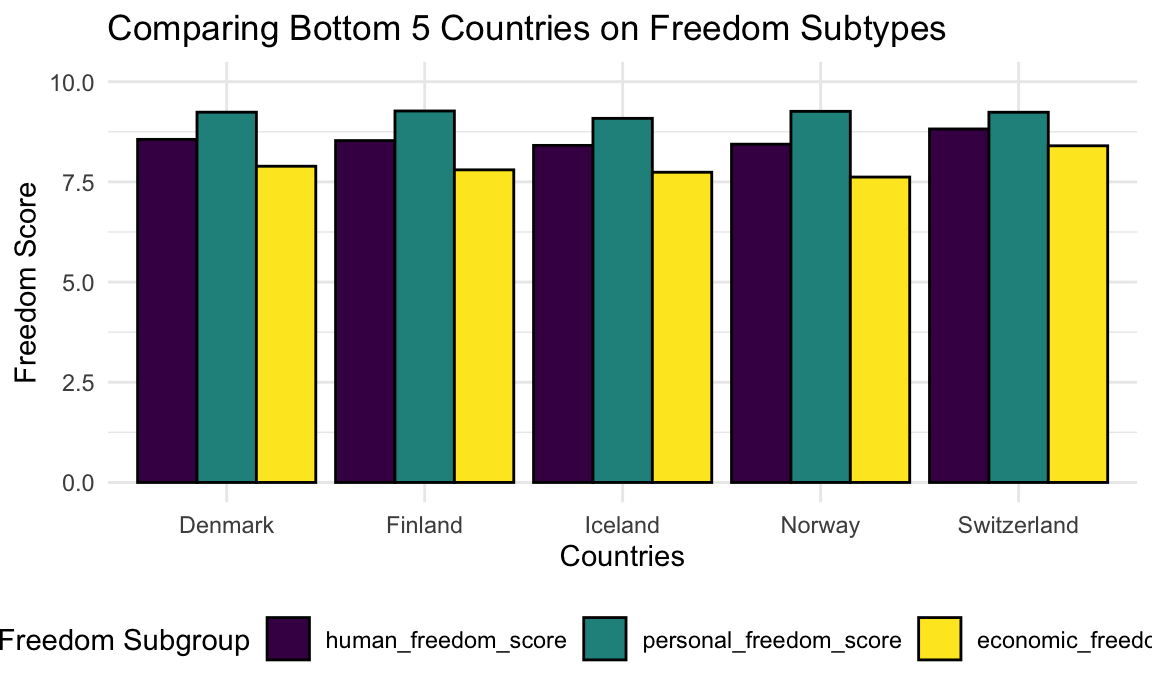
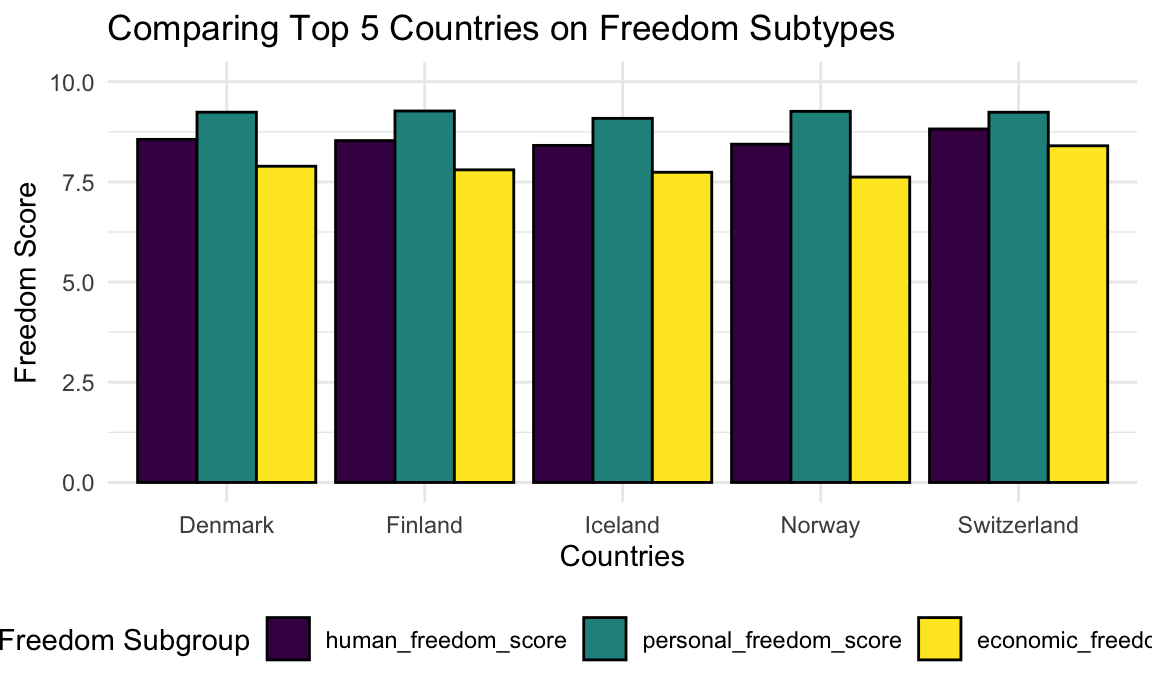
Finished top 5 bottom 5

Changed region(s): [[0.25, 0.0, 0.8438, 0.0608]]

diff --git a/top_5_bottom_5.html b/top_5_bottom_5.html
@@ -637,8 +637,8 @@ hfi_combo %&gt;%
   layout(title = &quot;Comparing Top 5 and Bottom 5 Human Freedom Scoring Countries&quot;,
       xaxis = list(title = &quot;Human Freedom Score&quot;),
       yaxis = list(title = &quot;Happiness Score&quot;))</code></pre>
-<div id="htmlwidget-d3958612dc48630bd6ab" style="width:90%;height:345.6px;" class="plotly html-widget"></div>
-<script type="application/json" data-for="htmlwidget-d3958612dc48630bd6ab">{"x":{"visdat":{"4df41dd8dc9e":["function () ","plotlyVisDat"]},"cur_data":"4df41dd8dc9e","attrs":{"4df41dd8dc9e":{"x":{},"y":{},"mode":"markers","text":{},"color":{},"size":3,"colors":"viridis","alpha":0.5,"alpha_stroke":1,"sizes":[10,100],"spans":[1,20],"type":"scatter"}},"layout":{"margin":{"b":40,"l":60,"t":25,"r":10},"title":"Comparing Top 5 and Bottom 5 Human Freedom Scoring Countries","xaxis":{"domain":[0,1],"automargin":true,"title":"Human Freedom Score"},"yaxis":{"domain":[0,1],"automargin":true,"title":"Happiness Score"},"hovermode":"closest","showlegend":true},"source":"A","config":{"showSendToCloud":false},"data":[{"x":[8.62],"y":[7.22279977798462],"mode":"markers","text":"Australia<br />Freedom Score:8.62<br />Happiness Score: 7.22279977798462","type":"scatter","name":"Australia","marker":{"color":"rgba(68,1,84,0.5)","size":[55],"sizemode":"area","line":{"color":"rgba(68,1,84,1)"}},"textfont":{"color":"rgba(68,1,84,0.5)","size":55},"error_y":{"color":"rgba(68,1,84,0.5)","width":55},"error_x":{"color":"rgba(68,1,84,0.5)","width":55},"line":{"color":"rgba(68,1,84,0.5)","width":55},"xaxis":"x","yaxis":"y","frame":null},{"x":[8.65],"y":[7.23210000991821],"mode":"markers","text":"Canada<br />Freedom Score:8.65<br />Happiness Score: 7.23210000991821","type":"scatter","name":"Canada","marker":{"color":"rgba(72,40,120,0.5)","size":[55],"sizemode":"area","line":{"color":"rgba(72,40,120,1)"}},"textfont":{"color":"rgba(72,40,120,0.5)","size":55},"error_y":{"color":"rgba(72,40,120,0.5)","width":55},"error_x":{"color":"rgba(72,40,120,0.5)","width":55},"line":{"color":"rgba(72,40,120,0.5)","width":55},"xaxis":"x","yaxis":"y","frame":null},{"x":[4.5],"y":[4.15140008926392],"mode":"markers","text":"Egypt<br />Freedom Score:4.5<br />Happiness Score: 4.15140008926392","type":"scatter","name":"Egypt","marker":{"color":"rgba(62,74,137,0.5)","size":[55],"sizemode":"area","line":{"color":"rgba(62,74,137,1)"}},"textfont":{"color":"rgba(62,74,137,0.5)","size":55},"error_y":{"color":"rgba(62,74,137,0.5)","width":55},"error_x":{"color":"rgba(62,74,137,0.5)","width":55},"line":{"color":"rgba(62,74,137,0.5)","width":55},"xaxis":"x","yaxis":"y","frame":null},{"x":[8.81],"y":[5.51039981842041],"mode":"markers","text":"Hong Kong<br />Freedom Score:8.81<br />Happiness Score: 5.51039981842041","type":"scatter","name":"Hong Kong","marker":{"color":"rgba(49,104,142,0.5)","size":[55],"sizemode":"area","line":{"color":"rgba(49,104,142,1)"}},"textfont":{"color":"rgba(49,104,142,0.5)","size":55},"error_y":{"color":"rgba(49,104,142,0.5)","width":55},"error_x":{"color":"rgba(49,104,142,0.5)","width":55},"line":{"color":"rgba(49,104,142,0.5)","width":55},"xaxis":"x","yaxis":"y","frame":null},{"x":[4.34],"y":[4.78480005264282],"mode":"markers","text":"Iraq<br />Freedom Score:4.34<br />Happiness Score: 4.78480005264282","type":"scatter","name":"Iraq","marker":{"color":"rgba(38,130,142,0.5)","size":[55],"sizemode":"area","line":{"color":"rgba(38,130,142,1)"}},"textfont":{"color":"rgba(38,130,142,0.5)","size":55},"error_y":{"color":"rgba(38,130,142,0.5)","width":55},"error_x":{"color":"rgba(38,130,142,0.5)","width":55},"line":{"color":"rgba(38,130,142,0.5)","width":55},"xaxis":"x","yaxis":"y","frame":null},{"x":[4.64],"y":[5.48880004882812],"mode":"markers","text":"Libya<br />Freedom Score:4.64<br />Happiness Score: 5.48880004882812","type":"scatter","name":"Libya","marker":{"color":"rgba(31,158,137,0.5)","size":[55],"sizemode":"area","line":{"color":"rgba(31,158,137,1)"}},"textfont":{"color":"rgba(31,158,137,0.5)","size":55},"error_y":{"color":"rgba(31,158,137,0.5)","width":55},"error_x":{"color":"rgba(31,158,137,0.5)","width":55},"line":{"color":"rgba(31,158,137,0.5)","width":55},"xaxis":"x","yaxis":"y","frame":null},{"x":[8.88],"y":[7.29960012435913],"mode":"markers","text":"New Zealand<br />Freedom Score:8.88<br />Happiness Score: 7.29960012435913","type":"scatter","name":"New Zealand","marker":{"color":"rgba(53,183,121,0.5)","size":[55],"sizemode":"area","line":{"color":"rgba(53,183,121,1)"}},"textfont":{"color":"rgba(53,183,121,0.5)","size":55},"error_y":{"color":"rgba(53,183,121,0.5)","width":55},"error_x":{"color":"rgba(53,183,121,0.5)","width":55},"line":{"color":"rgba(53,183,121,0.5)","width":55},"xaxis":"x","yaxis":"y","frame":null},{"x":[8.82],"y":[7.55989980697632],"mode":"markers","text":"Switzerland<br />Freedom Score:8.82<br />Happiness Score: 7.55989980697632","type":"scatter","name":"Switzerland","marker":{"color":"rgba(109,205,89,0.5)","size":[55],"sizemode":"area","line":{"color":"rgba(109,205,89,1)"}},"textfont":{"color":"rgba(109,205,89,0.5)","size":55},"error_y":{"color":"rgba(109,205,89,0.5)","width":55},"error_x":{"color":"rgba(109,205,89,0.5)","width":55},"line":{"color":"rgba(109,205,89,0.5)","width":55},"xaxis":"x","yaxis":"y","frame":null},{"x":[3.8],"y":[5.05319976806641],"mode":"markers","text":"Venezuela<br />Freedom Score:3.8<br />Happiness Score: 5.05319976806641","type":"scatter","name":"Venezuela","marker":{"color":"rgba(180,222,44,0.5)","size":[55],"sizemode":"area","line":{"color":"rgba(180,222,44,1)"}},"textfont":{"color":"rgba(180,222,44,0.5)","size":55},"error_y":{"color":"rgba(180,222,44,0.5)","width":55},"error_x":{"color":"rgba(180,222,44,0.5)","width":55},"line":{"color":"rgba(180,222,44,0.5)","width":55},"xaxis":"x","yaxis":"y","frame":null},{"x":[4.3],"y":[3.52740001678467],"mode":"markers","text":"Yemen<br />Freedom Score:4.3<br />Happiness Score: 3.52740001678467","type":"scatter","name":"Yemen","marker":{"color":"rgba(253,231,37,0.5)","size":[55],"sizemode":"area","line":{"color":"rgba(253,231,37,1)"}},"textfont":{"color":"rgba(253,231,37,0.5)","size":55},"error_y":{"color":"rgba(253,231,37,0.5)","width":55},"error_x":{"color":"rgba(253,231,37,0.5)","width":55},"line":{"color":"rgba(253,231,37,0.5)","width":55},"xaxis":"x","yaxis":"y","frame":null}],"highlight":{"on":"plotly_click","persistent":false,"dynamic":false,"selectize":false,"opacityDim":0.2,"selected":{"opacity":1},"debounce":0},"shinyEvents":["plotly_hover","plotly_click","plotly_selected","plotly_relayout","plotly_brushed","plotly_brushing","plotly_clickannotation","plotly_doubleclick","plotly_deselect","plotly_afterplot","plotly_sunburstclick"],"base_url":"https://plot.ly"},"evals":[],"jsHooks":[]}</script>
+<div id="htmlwidget-efdf5a2f674acb18d810" style="width:90%;height:345.6px;" class="plotly html-widget"></div>
+<script type="application/json" data-for="htmlwidget-efdf5a2f674acb18d810">{"x":{"visdat":{"50e56fc32877":["function () ","plotlyVisDat"]},"cur_data":"50e56fc32877","attrs":{"50e56fc32877":{"x":{},"y":{},"mode":"markers","text":{},"color":{},"size":3,"colors":"viridis","alpha":0.5,"alpha_stroke":1,"sizes":[10,100],"spans":[1,20],"type":"scatter"}},"layout":{"margin":{"b":40,"l":60,"t":25,"r":10},"title":"Comparing Top 5 and Bottom 5 Human Freedom Scoring Countries","xaxis":{"domain":[0,1],"automargin":true,"title":"Human Freedom Score"},"yaxis":{"domain":[0,1],"automargin":true,"title":"Happiness Score"},"hovermode":"closest","showlegend":true},"source":"A","config":{"showSendToCloud":false},"data":[{"x":[8.62],"y":[7.22279977798462],"mode":"markers","text":"Australia<br />Freedom Score:8.62<br />Happiness Score: 7.22279977798462","type":"scatter","name":"Australia","marker":{"color":"rgba(68,1,84,0.5)","size":[55],"sizemode":"area","line":{"color":"rgba(68,1,84,1)"}},"textfont":{"color":"rgba(68,1,84,0.5)","size":55},"error_y":{"color":"rgba(68,1,84,0.5)","width":55},"error_x":{"color":"rgba(68,1,84,0.5)","width":55},"line":{"color":"rgba(68,1,84,0.5)","width":55},"xaxis":"x","yaxis":"y","frame":null},{"x":[8.65],"y":[7.23210000991821],"mode":"markers","text":"Canada<br />Freedom Score:8.65<br />Happiness Score: 7.23210000991821","type":"scatter","name":"Canada","marker":{"color":"rgba(72,40,120,0.5)","size":[55],"sizemode":"area","line":{"color":"rgba(72,40,120,1)"}},"textfont":{"color":"rgba(72,40,120,0.5)","size":55},"error_y":{"color":"rgba(72,40,120,0.5)","width":55},"error_x":{"color":"rgba(72,40,120,0.5)","width":55},"line":{"color":"rgba(72,40,120,0.5)","width":55},"xaxis":"x","yaxis":"y","frame":null},{"x":[4.5],"y":[4.15140008926392],"mode":"markers","text":"Egypt<br />Freedom Score:4.5<br />Happiness Score: 4.15140008926392","type":"scatter","name":"Egypt","marker":{"color":"rgba(62,74,137,0.5)","size":[55],"sizemode":"area","line":{"color":"rgba(62,74,137,1)"}},"textfont":{"color":"rgba(62,74,137,0.5)","size":55},"error_y":{"color":"rgba(62,74,137,0.5)","width":55},"error_x":{"color":"rgba(62,74,137,0.5)","width":55},"line":{"color":"rgba(62,74,137,0.5)","width":55},"xaxis":"x","yaxis":"y","frame":null},{"x":[8.81],"y":[5.51039981842041],"mode":"markers","text":"Hong Kong<br />Freedom Score:8.81<br />Happiness Score: 5.51039981842041","type":"scatter","name":"Hong Kong","marker":{"color":"rgba(49,104,142,0.5)","size":[55],"sizemode":"area","line":{"color":"rgba(49,104,142,1)"}},"textfont":{"color":"rgba(49,104,142,0.5)","size":55},"error_y":{"color":"rgba(49,104,142,0.5)","width":55},"error_x":{"color":"rgba(49,104,142,0.5)","width":55},"line":{"color":"rgba(49,104,142,0.5)","width":55},"xaxis":"x","yaxis":"y","frame":null},{"x":[4.34],"y":[4.78480005264282],"mode":"markers","text":"Iraq<br />Freedom Score:4.34<br />Happiness Score: 4.78480005264282","type":"scatter","name":"Iraq","marker":{"color":"rgba(38,130,142,0.5)","size":[55],"sizemode":"area","line":{"color":"rgba(38,130,142,1)"}},"textfont":{"color":"rgba(38,130,142,0.5)","size":55},"error_y":{"color":"rgba(38,130,142,0.5)","width":55},"error_x":{"color":"rgba(38,130,142,0.5)","width":55},"line":{"color":"rgba(38,130,142,0.5)","width":55},"xaxis":"x","yaxis":"y","frame":null},{"x":[4.64],"y":[5.48880004882812],"mode":"markers","text":"Libya<br />Freedom Score:4.64<br />Happiness Score: 5.48880004882812","type":"scatter","name":"Libya","marker":{"color":"rgba(31,158,137,0.5)","size":[55],"sizemode":"area","line":{"color":"rgba(31,158,137,1)"}},"textfont":{"color":"rgba(31,158,137,0.5)","size":55},"error_y":{"color":"rgba(31,158,137,0.5)","width":55},"error_x":{"color":"rgba(31,158,137,0.5)","width":55},"line":{"color":"rgba(31,158,137,0.5)","width":55},"xaxis":"x","yaxis":"y","frame":null},{"x":[8.88],"y":[7.29960012435913],"mode":"markers","text":"New Zealand<br />Freedom Score:8.88<br />Happiness Score: 7.29960012435913","type":"scatter","name":"New Zealand","marker":{"color":"rgba(53,183,121,0.5)","size":[55],"sizemode":"area","line":{"color":"rgba(53,183,121,1)"}},"textfont":{"color":"rgba(53,183,121,0.5)","size":55},"error_y":{"color":"rgba(53,183,121,0.5)","width":55},"error_x":{"color":"rgba(53,183,121,0.5)","width":55},"line":{"color":"rgba(53,183,121,0.5)","width":55},"xaxis":"x","yaxis":"y","frame":null},{"x":[8.82],"y":[7.55989980697632],"mode":"markers","text":"Switzerland<br />Freedom Score:8.82<br />Happiness Score: 7.55989980697632","type":"scatter","name":"Switzerland","marker":{"color":"rgba(109,205,89,0.5)","size":[55],"sizemode":"area","line":{"color":"rgba(109,205,89,1)"}},"textfont":{"color":"rgba(109,205,89,0.5)","size":55},"error_y":{"color":"rgba(109,205,89,0.5)","width":55},"error_x":{"color":"rgba(109,205,89,0.5)","width":55},"line":{"color":"rgba(109,205,89,0.5)","width":55},"xaxis":"x","yaxis":"y","frame":null},{"x":[3.8],"y":[5.05319976806641],"mode":"markers","text":"Venezuela<br />Freedom Score:3.8<br />Happiness Score: 5.05319976806641","type":"scatter","name":"Venezuela","marker":{"color":"rgba(180,222,44,0.5)","size":[55],"sizemode":"area","line":{"color":"rgba(180,222,44,1)"}},"textfont":{"color":"rgba(180,222,44,0.5)","size":55},"error_y":{"color":"rgba(180,222,44,0.5)","width":55},"error_x":{"color":"rgba(180,222,44,0.5)","width":55},"line":{"color":"rgba(180,222,44,0.5)","width":55},"xaxis":"x","yaxis":"y","frame":null},{"x":[4.3],"y":[3.52740001678467],"mode":"markers","text":"Yemen<br />Freedom Score:4.3<br />Happiness Score: 3.52740001678467","type":"scatter","name":"Yemen","marker":{"color":"rgba(253,231,37,0.5)","size":[55],"sizemode":"area","line":{"color":"rgba(253,231,37,1)"}},"textfont":{"color":"rgba(253,231,37,0.5)","size":55},"error_y":{"color":"rgba(253,231,37,0.5)","width":55},"error_x":{"color":"rgba(253,231,37,0.5)","width":55},"line":{"color":"rgba(253,231,37,0.5)","width":55},"xaxis":"x","yaxis":"y","frame":null}],"highlight":{"on":"plotly_click","persistent":false,"dynamic":false,"selectize":false,"opacityDim":0.2,"selected":{"opacity":1},"debounce":0},"shinyEvents":["plotly_hover","plotly_click","plotly_selected","plotly_relayout","plotly_brushed","plotly_brushing","plotly_clickannotation","plotly_doubleclick","plotly_deselect","plotly_afterplot","plotly_sunburstclick"],"base_url":"https://plot.ly"},"evals":[],"jsHooks":[]}</script>
 <p>This plot compares the top 5 and bottom 5 countries for human freedom scores. You can see that there is a good amount of variety in happiness scores among the top 5 and bottom 5 countries. Libya and Hong Kong have very similar happiness scores, which seems to indicate that high freedom scores do not necessarily mean that the population living in those countries are happier. Still, there is quite a divide in happiness scores across the other countries in the top 5 and bottom 5.</p>
 </div>
 </div>
@@ -707,7 +707,7 @@ hfi_combo %&gt;%
 <td align="right">6.464</td>
 </tr>
 <tr class="odd">
-<td align="left">bot_whr_sd</td>
+<td align="left">bot5_whr_sd</td>
 <td align="right">0.094</td>
 <td align="right">0.748</td>
 <td align="right">0.602</td>
@@ -715,6 +715,7 @@ hfi_combo %&gt;%
 </tr>
 </tbody>
 </table>
+<p>The bottom 5 countries for happiness scores are quite uniform, with a very small standard deviation and very little difference between the countries’ scores. However, they are quite different across freedom scores, with Botswana scoring pretty highly overall and in the two subtypes of freedom score. Additionally, it is interesting to note that there is no overlap between the bottom 5 countries in terms of happiness and the bottom 5 countries in terms of human freedom scores.</p>
 <pre class="r"><code>bot5_whr %&gt;% 
 select(-happiness_score) %&gt;% 
   pivot_longer(
@@ -733,7 +734,7 @@ select(-happiness_score) %&gt;%
   labs(fill = &quot;Freedom Subgroup&quot;)+
   theme(axis.text.x = element_text(size = 8, angle = 25, hjust = 1))</code></pre>
 <p><img src="top_5_bottom_5_files/figure-html/unnamed-chunk-13-1.png" width="90%" /></p>
-<p>Insert comments about bot 5 whr</p>
+<p>This chart shows further that the freedom scores for the countries with the lowest happiness scores are roughly similar, with the Central African Republic and Zimbabwe having lower scores than the others. Interestingly, these countries all seem to have pretty similar economic and personal freedom scores.</p>
 </div>
 <div id="top-5-countries-for-happiness-scores" class="section level4">
 <h4>Top 5 Countries for Happiness Scores</h4>
@@ -806,6 +807,7 @@ select(-happiness_score) %&gt;%
 </tr>
 </tbody>
 </table>
+<p>As with the bottom 5 countries, there is a good amount of uniformity in happiness scores among the top 5 scoring countries. The human freedom scores for these countries are also quite high. The most striking similarity between the top 5 happiness countries is that they all have very high personal freedom scores.</p>
 <pre class="r"><code>top5_whr %&gt;% 
 select(-happiness_score) %&gt;% 
   pivot_longer(
@@ -818,12 +820,54 @@ select(-happiness_score) %&gt;%
   ggplot(aes(x = countries, y = score, fill = freedom_subgroup)) + 
   geom_bar(stat = &quot;identity&quot;, color = &quot;black&quot;, position = position_dodge()) +
   ylim(min = 0, max = 10) + 
-  ggtitle(&quot;Comparing Bottom 5 Countries on Freedom Subtypes&quot;) +
+  ggtitle(&quot;Comparing Top 5 Countries on Freedom Subtypes&quot;) +
   xlab(&quot;Countries&quot;)+
   ylab(&quot;Freedom Score&quot;)+
   labs(fill = &quot;Freedom Subgroup&quot;)</code></pre>
 <p><img src="top_5_bottom_5_files/figure-html/unnamed-chunk-15-1.png" width="90%" /></p>
-<p>Insert comments about top 5 whr</p>
+<p>This chart shows that, unlike the bottom 5 countries for happiness scores, there is less uniformity between economic and personal freedom scores. All countries have very high personal freedom scores, but there is more variation in the economic freedom scores.</p>
+<pre class="r"><code>whr_table = 
+  rbind(top5_whr_merge, bot5_whr_merge) %&gt;% 
+  filter(countries %in% c(&quot;top5_whr_average&quot;, &quot;top5_whr_sd&quot;, &quot;bot5_whr_average&quot;, &quot;bot5_whr_sd&quot;)) %&gt;% 
+  select(countries, human_freedom_score, happiness_score) %&gt;% 
+  pivot_longer(human_freedom_score:happiness_score,
+    names_to = &quot;score&quot;,
+    values_to = &quot;aaah&quot;
+  ) %&gt;% 
+  pivot_wider(
+    names_from = &quot;countries&quot;,
+    values_from = &quot;aaah&quot;
+  )
+
+whr_table %&gt;% knitr::kable()</code></pre>
+<table>
+<thead>
+<tr class="header">
+<th align="left">score</th>
+<th align="right">top5_whr_average</th>
+<th align="right">top5_whr_sd</th>
+<th align="right">bot5_whr_average</th>
+<th align="right">bot5_whr_sd</th>
+</tr>
+</thead>
+<tbody>
+<tr class="odd">
+<td align="left">human_freedom_score</td>
+<td align="right">8.55200</td>
+<td align="right">0.1620802</td>
+<td align="right">6.2620</td>
+<td align="right">0.7477098</td>
+</tr>
+<tr class="even">
+<td align="left">happiness_score</td>
+<td align="right">7.60134</td>
+<td align="right">0.1312425</td>
+<td align="right">3.4085</td>
+<td align="right">0.0939190</td>
+</tr>
+</tbody>
+</table>
+<p>This table shows that the values for both human freedom scores and happiness scores among the top 5 countries for happiness are quite uniform in their distribution around the mean. On the other hand, the human freedom score standard deviation for the bottom 5 countries on happiness score is quite high, indicating that the scores are more spread out around the mean. The happiness score standard deviation for the bottom 5 countries, though, are very close to one another.</p>
 <pre class="r"><code>whr_combo = full_join(bot5_whr, top5_whr)
 
 whr_combo %&gt;% 
@@ -833,9 +877,9 @@ whr_combo %&gt;%
       xaxis = list(title = &quot;Happiness Score&quot;),
       yaxis = list(title = &quot;Human Freedom Score&quot;)
     )</code></pre>
-<div id="htmlwidget-51944a2f1526779c26cb" style="width:90%;height:345.6px;" class="plotly html-widget"></div>
-<script type="application/json" data-for="htmlwidget-51944a2f1526779c26cb">{"x":{"visdat":{"4df47787f0e0":["function () ","plotlyVisDat"]},"cur_data":"4df47787f0e0","attrs":{"4df47787f0e0":{"x":{},"y":{},"mode":"markers","text":{},"color":{},"size":3,"colors":"viridis","alpha":0.5,"alpha_stroke":1,"sizes":[10,100],"spans":[1,20],"type":"scatter"}},"layout":{"margin":{"b":40,"l":60,"t":25,"r":10},"title":"Comparing Top 5 and Bottom 5 Happiness Scoring Countries","xaxis":{"domain":[0,1],"automargin":true,"title":"Happiness Score"},"yaxis":{"domain":[0,1],"automargin":true,"title":"Human Freedom Score"},"hovermode":"closest","showlegend":true},"source":"A","config":{"showSendToCloud":false},"data":[{"x":[3.47889995574951],"y":[7.17],"mode":"markers","text":"Botswana<br />Happiness Score: 3.47889995574951<br />Freedom Score:7.17","type":"scatter","name":"Botswana","marker":{"color":"rgba(68,1,84,0.5)","size":[55],"sizemode":"area","line":{"color":"rgba(68,1,84,1)"}},"textfont":{"color":"rgba(68,1,84,0.5)","size":55},"error_y":{"color":"rgba(68,1,84,0.5)","width":55},"error_x":{"color":"rgba(68,1,84,0.5)","width":55},"line":{"color":"rgba(68,1,84,0.5)","width":55},"xaxis":"x","yaxis":"y","frame":null},{"x":[3.47589993476868],"y":[5.41],"mode":"markers","text":"Central African Republic<br />Happiness Score: 3.47589993476868<br />Freedom Score:5.41","type":"scatter","name":"Central African Republic","marker":{"color":"rgba(72,40,120,0.5)","size":[55],"sizemode":"area","line":{"color":"rgba(72,40,120,1)"}},"textfont":{"color":"rgba(72,40,120,0.5)","size":55},"error_y":{"color":"rgba(72,40,120,0.5)","width":55},"error_x":{"color":"rgba(72,40,120,0.5)","width":55},"line":{"color":"rgba(72,40,120,0.5)","width":55},"xaxis":"x","yaxis":"y","frame":null},{"x":[7.64559984207153],"y":[8.56],"mode":"markers","text":"Denmark<br />Happiness Score: 7.64559984207153<br />Freedom Score:8.56","type":"scatter","name":"Denmark","marker":{"color":"rgba(62,74,137,0.5)","size":[55],"sizemode":"area","line":{"color":"rgba(62,74,137,1)"}},"textfont":{"color":"rgba(62,74,137,0.5)","size":55},"error_y":{"color":"rgba(62,74,137,0.5)","width":55},"error_x":{"color":"rgba(62,74,137,0.5)","width":55},"line":{"color":"rgba(62,74,137,0.5)","width":55},"xaxis":"x","yaxis":"y","frame":null},{"x":[7.80870008468628],"y":[8.53],"mode":"markers","text":"Finland<br />Happiness Score: 7.80870008468628<br />Freedom Score:8.53","type":"scatter","name":"Finland","marker":{"color":"rgba(49,104,142,0.5)","size":[55],"sizemode":"area","line":{"color":"rgba(49,104,142,1)"}},"textfont":{"color":"rgba(49,104,142,0.5)","size":55},"error_y":{"color":"rgba(49,104,142,0.5)","width":55},"error_x":{"color":"rgba(49,104,142,0.5)","width":55},"line":{"color":"rgba(49,104,142,0.5)","width":55},"xaxis":"x","yaxis":"y","frame":null},{"x":[7.50449991226196],"y":[8.41],"mode":"markers","text":"Iceland<br />Happiness Score: 7.50449991226196<br />Freedom Score:8.41","type":"scatter","name":"Iceland","marker":{"color":"rgba(38,130,142,0.5)","size":[55],"sizemode":"area","line":{"color":"rgba(38,130,142,1)"}},"textfont":{"color":"rgba(38,130,142,0.5)","size":55},"error_y":{"color":"rgba(38,130,142,0.5)","width":55},"error_x":{"color":"rgba(38,130,142,0.5)","width":55},"line":{"color":"rgba(38,130,142,0.5)","width":55},"xaxis":"x","yaxis":"y","frame":null},{"x":[7.48799991607666],"y":[8.44],"mode":"markers","text":"Norway<br />Happiness Score: 7.48799991607666<br />Freedom Score:8.44","type":"scatter","name":"Norway","marker":{"color":"rgba(31,158,137,0.5)","size":[55],"sizemode":"area","line":{"color":"rgba(31,158,137,1)"}},"textfont":{"color":"rgba(31,158,137,0.5)","size":55},"error_y":{"color":"rgba(31,158,137,0.5)","width":55},"error_x":{"color":"rgba(31,158,137,0.5)","width":55},"line":{"color":"rgba(31,158,137,0.5)","width":55},"xaxis":"x","yaxis":"y","frame":null},{"x":[3.31229996681213],"y":[6.82],"mode":"markers","text":"Rwanda<br />Happiness Score: 3.31229996681213<br />Freedom Score:6.82","type":"scatter","name":"Rwanda","marker":{"color":"rgba(53,183,121,0.5)","size":[55],"sizemode":"area","line":{"color":"rgba(53,183,121,1)"}},"textfont":{"color":"rgba(53,183,121,0.5)","size":55},"error_y":{"color":"rgba(53,183,121,0.5)","width":55},"error_x":{"color":"rgba(53,183,121,0.5)","width":55},"line":{"color":"rgba(53,183,121,0.5)","width":55},"xaxis":"x","yaxis":"y","frame":null},{"x":[7.55989980697632],"y":[8.82],"mode":"markers","text":"Switzerland<br />Happiness Score: 7.55989980697632<br />Freedom Score:8.82","type":"scatter","name":"Switzerland","marker":{"color":"rgba(109,205,89,0.5)","size":[55],"sizemode":"area","line":{"color":"rgba(109,205,89,1)"}},"textfont":{"color":"rgba(109,205,89,0.5)","size":55},"error_y":{"color":"rgba(109,205,89,0.5)","width":55},"error_x":{"color":"rgba(109,205,89,0.5)","width":55},"line":{"color":"rgba(109,205,89,0.5)","width":55},"xaxis":"x","yaxis":"y","frame":null},{"x":[3.47620010375977],"y":[6.26],"mode":"markers","text":"Tanzania<br />Happiness Score: 3.47620010375977<br />Freedom Score:6.26","type":"scatter","name":"Tanzania","marker":{"color":"rgba(180,222,44,0.5)","size":[55],"sizemode":"area","line":{"color":"rgba(180,222,44,1)"}},"textfont":{"color":"rgba(180,222,44,0.5)","size":55},"error_y":{"color":"rgba(180,222,44,0.5)","width":55},"error_x":{"color":"rgba(180,222,44,0.5)","width":55},"line":{"color":"rgba(180,222,44,0.5)","width":55},"xaxis":"x","yaxis":"y","frame":null},{"x":[3.2992000579834],"y":[5.65],"mode":"markers","text":"Zimbabwe<br />Happiness Score: 3.2992000579834<br />Freedom Score:5.65","type":"scatter","name":"Zimbabwe","marker":{"color":"rgba(253,231,37,0.5)","size":[55],"sizemode":"area","line":{"color":"rgba(253,231,37,1)"}},"textfont":{"color":"rgba(253,231,37,0.5)","size":55},"error_y":{"color":"rgba(253,231,37,0.5)","width":55},"error_x":{"color":"rgba(253,231,37,0.5)","width":55},"line":{"color":"rgba(253,231,37,0.5)","width":55},"xaxis":"x","yaxis":"y","frame":null}],"highlight":{"on":"plotly_click","persistent":false,"dynamic":false,"selectize":false,"opacityDim":0.2,"selected":{"opacity":1},"debounce":0},"shinyEvents":["plotly_hover","plotly_click","plotly_selected","plotly_relayout","plotly_brushed","plotly_brushing","plotly_clickannotation","plotly_doubleclick","plotly_deselect","plotly_afterplot","plotly_sunburstclick"],"base_url":"https://plot.ly"},"evals":[],"jsHooks":[]}</script>
-<p>Insert comments about whr plot</p>
+<div id="htmlwidget-47b671eb3f291f68446c" style="width:90%;height:345.6px;" class="plotly html-widget"></div>
+<script type="application/json" data-for="htmlwidget-47b671eb3f291f68446c">{"x":{"visdat":{"50e526b126a6":["function () ","plotlyVisDat"]},"cur_data":"50e526b126a6","attrs":{"50e526b126a6":{"x":{},"y":{},"mode":"markers","text":{},"color":{},"size":3,"colors":"viridis","alpha":0.5,"alpha_stroke":1,"sizes":[10,100],"spans":[1,20],"type":"scatter"}},"layout":{"margin":{"b":40,"l":60,"t":25,"r":10},"title":"Comparing Top 5 and Bottom 5 Happiness Scoring Countries","xaxis":{"domain":[0,1],"automargin":true,"title":"Happiness Score"},"yaxis":{"domain":[0,1],"automargin":true,"title":"Human Freedom Score"},"hovermode":"closest","showlegend":true},"source":"A","config":{"showSendToCloud":false},"data":[{"x":[3.47889995574951],"y":[7.17],"mode":"markers","text":"Botswana<br />Happiness Score: 3.47889995574951<br />Freedom Score:7.17","type":"scatter","name":"Botswana","marker":{"color":"rgba(68,1,84,0.5)","size":[55],"sizemode":"area","line":{"color":"rgba(68,1,84,1)"}},"textfont":{"color":"rgba(68,1,84,0.5)","size":55},"error_y":{"color":"rgba(68,1,84,0.5)","width":55},"error_x":{"color":"rgba(68,1,84,0.5)","width":55},"line":{"color":"rgba(68,1,84,0.5)","width":55},"xaxis":"x","yaxis":"y","frame":null},{"x":[3.47589993476868],"y":[5.41],"mode":"markers","text":"Central African Republic<br />Happiness Score: 3.47589993476868<br />Freedom Score:5.41","type":"scatter","name":"Central African Republic","marker":{"color":"rgba(72,40,120,0.5)","size":[55],"sizemode":"area","line":{"color":"rgba(72,40,120,1)"}},"textfont":{"color":"rgba(72,40,120,0.5)","size":55},"error_y":{"color":"rgba(72,40,120,0.5)","width":55},"error_x":{"color":"rgba(72,40,120,0.5)","width":55},"line":{"color":"rgba(72,40,120,0.5)","width":55},"xaxis":"x","yaxis":"y","frame":null},{"x":[7.64559984207153],"y":[8.56],"mode":"markers","text":"Denmark<br />Happiness Score: 7.64559984207153<br />Freedom Score:8.56","type":"scatter","name":"Denmark","marker":{"color":"rgba(62,74,137,0.5)","size":[55],"sizemode":"area","line":{"color":"rgba(62,74,137,1)"}},"textfont":{"color":"rgba(62,74,137,0.5)","size":55},"error_y":{"color":"rgba(62,74,137,0.5)","width":55},"error_x":{"color":"rgba(62,74,137,0.5)","width":55},"line":{"color":"rgba(62,74,137,0.5)","width":55},"xaxis":"x","yaxis":"y","frame":null},{"x":[7.80870008468628],"y":[8.53],"mode":"markers","text":"Finland<br />Happiness Score: 7.80870008468628<br />Freedom Score:8.53","type":"scatter","name":"Finland","marker":{"color":"rgba(49,104,142,0.5)","size":[55],"sizemode":"area","line":{"color":"rgba(49,104,142,1)"}},"textfont":{"color":"rgba(49,104,142,0.5)","size":55},"error_y":{"color":"rgba(49,104,142,0.5)","width":55},"error_x":{"color":"rgba(49,104,142,0.5)","width":55},"line":{"color":"rgba(49,104,142,0.5)","width":55},"xaxis":"x","yaxis":"y","frame":null},{"x":[7.50449991226196],"y":[8.41],"mode":"markers","text":"Iceland<br />Happiness Score: 7.50449991226196<br />Freedom Score:8.41","type":"scatter","name":"Iceland","marker":{"color":"rgba(38,130,142,0.5)","size":[55],"sizemode":"area","line":{"color":"rgba(38,130,142,1)"}},"textfont":{"color":"rgba(38,130,142,0.5)","size":55},"error_y":{"color":"rgba(38,130,142,0.5)","width":55},"error_x":{"color":"rgba(38,130,142,0.5)","width":55},"line":{"color":"rgba(38,130,142,0.5)","width":55},"xaxis":"x","yaxis":"y","frame":null},{"x":[7.48799991607666],"y":[8.44],"mode":"markers","text":"Norway<br />Happiness Score: 7.48799991607666<br />Freedom Score:8.44","type":"scatter","name":"Norway","marker":{"color":"rgba(31,158,137,0.5)","size":[55],"sizemode":"area","line":{"color":"rgba(31,158,137,1)"}},"textfont":{"color":"rgba(31,158,137,0.5)","size":55},"error_y":{"color":"rgba(31,158,137,0.5)","width":55},"error_x":{"color":"rgba(31,158,137,0.5)","width":55},"line":{"color":"rgba(31,158,137,0.5)","width":55},"xaxis":"x","yaxis":"y","frame":null},{"x":[3.31229996681213],"y":[6.82],"mode":"markers","text":"Rwanda<br />Happiness Score: 3.31229996681213<br />Freedom Score:6.82","type":"scatter","name":"Rwanda","marker":{"color":"rgba(53,183,121,0.5)","size":[55],"sizemode":"area","line":{"color":"rgba(53,183,121,1)"}},"textfont":{"color":"rgba(53,183,121,0.5)","size":55},"error_y":{"color":"rgba(53,183,121,0.5)","width":55},"error_x":{"color":"rgba(53,183,121,0.5)","width":55},"line":{"color":"rgba(53,183,121,0.5)","width":55},"xaxis":"x","yaxis":"y","frame":null},{"x":[7.55989980697632],"y":[8.82],"mode":"markers","text":"Switzerland<br />Happiness Score: 7.55989980697632<br />Freedom Score:8.82","type":"scatter","name":"Switzerland","marker":{"color":"rgba(109,205,89,0.5)","size":[55],"sizemode":"area","line":{"color":"rgba(109,205,89,1)"}},"textfont":{"color":"rgba(109,205,89,0.5)","size":55},"error_y":{"color":"rgba(109,205,89,0.5)","width":55},"error_x":{"color":"rgba(109,205,89,0.5)","width":55},"line":{"color":"rgba(109,205,89,0.5)","width":55},"xaxis":"x","yaxis":"y","frame":null},{"x":[3.47620010375977],"y":[6.26],"mode":"markers","text":"Tanzania<br />Happiness Score: 3.47620010375977<br />Freedom Score:6.26","type":"scatter","name":"Tanzania","marker":{"color":"rgba(180,222,44,0.5)","size":[55],"sizemode":"area","line":{"color":"rgba(180,222,44,1)"}},"textfont":{"color":"rgba(180,222,44,0.5)","size":55},"error_y":{"color":"rgba(180,222,44,0.5)","width":55},"error_x":{"color":"rgba(180,222,44,0.5)","width":55},"line":{"color":"rgba(180,222,44,0.5)","width":55},"xaxis":"x","yaxis":"y","frame":null},{"x":[3.2992000579834],"y":[5.65],"mode":"markers","text":"Zimbabwe<br />Happiness Score: 3.2992000579834<br />Freedom Score:5.65","type":"scatter","name":"Zimbabwe","marker":{"color":"rgba(253,231,37,0.5)","size":[55],"sizemode":"area","line":{"color":"rgba(253,231,37,1)"}},"textfont":{"color":"rgba(253,231,37,0.5)","size":55},"error_y":{"color":"rgba(253,231,37,0.5)","width":55},"error_x":{"color":"rgba(253,231,37,0.5)","width":55},"line":{"color":"rgba(253,231,37,0.5)","width":55},"xaxis":"x","yaxis":"y","frame":null}],"highlight":{"on":"plotly_click","persistent":false,"dynamic":false,"selectize":false,"opacityDim":0.2,"selected":{"opacity":1},"debounce":0},"shinyEvents":["plotly_hover","plotly_click","plotly_selected","plotly_relayout","plotly_brushed","plotly_brushing","plotly_clickannotation","plotly_doubleclick","plotly_deselect","plotly_afterplot","plotly_sunburstclick"],"base_url":"https://plot.ly"},"evals":[],"jsHooks":[]}</script>
+<p>This plot visually shows that the bottom 5 countries for happiness score vary across human freedom scores, while the top 5 countries are clustered together with very similar scores for both happiness and human freedom.</p>
 </div>
 </div>
 </div>
